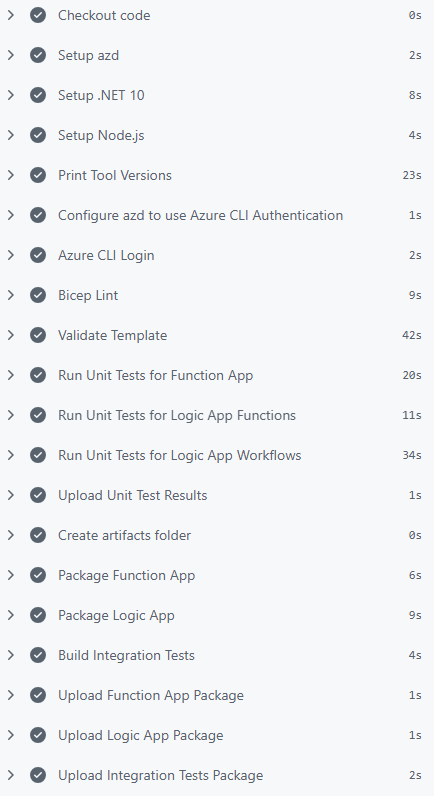
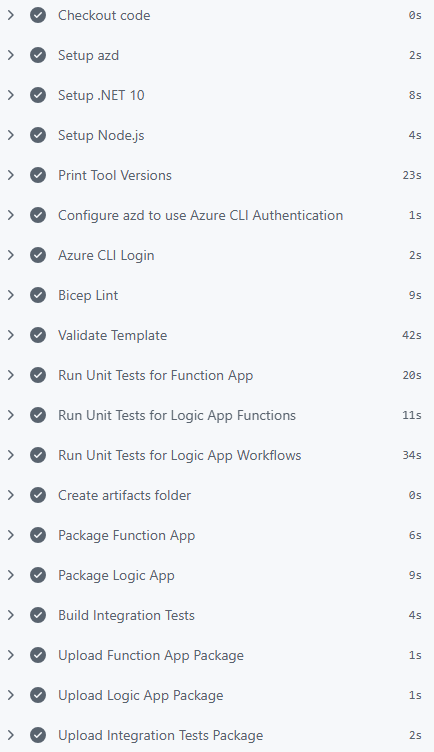
Use `--report-gh` flag when running tests This enables Github Action reporting for .NET tests

diff --git a/content/blog/github-actions-workflow-for-azd-templates/index.md b/content/blog/github-actions-workflow-for-azd-templates/index.md
@@ -2,7 +2,7 @@
 title: "GitHub Actions Workflow for Azure Developer CLI (azd) Templates"
 date: 2026-03-02T06:00:00+01:00
 publishdate: 2026-03-02T06:00:00+01:00
-lastmod: 2026-04-17T12:00:00+02:00
+lastmod: 2026-11-13T16:55:00+01:00
 tags: [ "Azure", "Azure Developer CLI", "azd", "GitHub Actions" ]
 summary: "In this post, I'll show how I structure a GitHub Actions workflow for Azure Developer CLI (azd) templates so I can automate the process of building, deploying, verifying and cleaning up. The workflow makes it easier to validate my own changes and review external contributions. I'll walk through each job with practical snippets and explain why I split build, deployment and verification."
 ---
@@ -174,34 +174,26 @@ Linting is useful, but I also validate the full deployment at subscription scope
 
 If your `main.bicep` file has more parameters, add those to the validate command as well.
 
-If the application code has unit tests, I run those too. The test results are stored in the `artifacts` folder and uploaded as workflow artifacts, which can be helpful for later inspection. Here's an example of running .NET tests, but you can adapt it to your test framework and language:
+If the application code has unit tests, I run those too. Here's an example of running .NET tests, but you can adapt it to your test framework and language:
 
 ```yaml
 - name: Run Unit Tests for Function App
   run: |
-    dotnet run --report-trx --results-directory "${{ github.workspace }}/artifacts/TestResults/functionApp"
+    dotnet run --report-gh
   working-directory: ./src/functionApp/FunctionApp.Tests
 
 - name: Run Unit Tests for Logic App Functions
   run: |
-    dotnet run --report-trx --results-directory "${{ github.workspace }}/artifacts/TestResults/logicApp"
+    dotnet run --report-gh
   working-directory: ./src/logicApp/Functions.Tests
 
 - name: Run Unit Tests for Logic App Workflows
   run: |
-    dotnet run --report-trx --results-directory "${{ github.workspace }}/artifacts/TestResults/logicApp"
+    dotnet run --report-gh
   working-directory: ./src/logicApp/Workflows.Tests
-
-- name: Upload Unit Test Results
-  if: always()
-  uses: actions/upload-artifact@v7
-  with:
-    name: unit-test-results
-    path: ./artifacts/TestResults/
-    retention-days: 1
 ```
 
-Note that the `if: always()` condition ensures that test results are uploaded even if some tests fail, which is important for diagnosing issues.
+By passing the `--report-gh` flag, test results are reported to the GitHub Actions workflow. You'll need to add the `Microsoft.Testing.Extensions.GitHubActionsReport` NuGet package to your test project for this to work.
 
 > I'm using [Microsoft.Testing.Platform](https://learn.microsoft.com/en-us/dotnet/core/testing/microsoft-testing-platform-intro?tabs=dotnetcli) in my test projects, so I can use `dotnet run` to execute tests. If you're using VSTest, you can use `dotnet test` instead. Just make sure to specify the correct logger and results directory to store the test results as artifacts.
 
@@ -338,22 +330,8 @@ For templates with end-to-end tests, I set up .NET, download the integration tes
 
 - name: Run Integration Tests
   run: |
-    dotnet ./artifacts/integration-tests/IntegrationTests.dll --report-trx --results-directory ./artifacts/integration-tests/TestResults
+    dotnet ./artifacts/integration-tests/IntegrationTests.dll --report-gh
   working-directory: ./
-  env:
-    # Pass the necessary deployed resource properties as environment variables so the integration tests can access them.
-    AZURE_TENANT_ID: ${{ secrets.AZURE_TENANT_ID || vars.AZURE_TENANT_ID }}
-    AZURE_RESOURCE_GROUP: ${{ needs.deploy.outputs.AZURE_RESOURCE_GROUP }}
-    AZURE_API_MANAGEMENT_GATEWAY_URL: ${{ needs.deploy.outputs.AZURE_API_MANAGEMENT_GATEWAY_URL }}
-    AZURE_KEY_VAULT_URI: ${{ needs.deploy.outputs.AZURE_KEY_VAULT_URI }}
-
-- name: Upload Test Results
-  if: always()
-  uses: actions/upload-artifact@v7
-  with:
-    name: integration-test-results
-    path: ./artifacts/integration-tests/TestResults/
-    retention-days: 1
 ```
 
 Note the environment variables passed to the test job. They are taken from the outputs of the deploy job, which in turn are retrieved from the azd environment file created during provisioning. This way, the tests can connect to the correct deployed resources without hardcoding any values.
